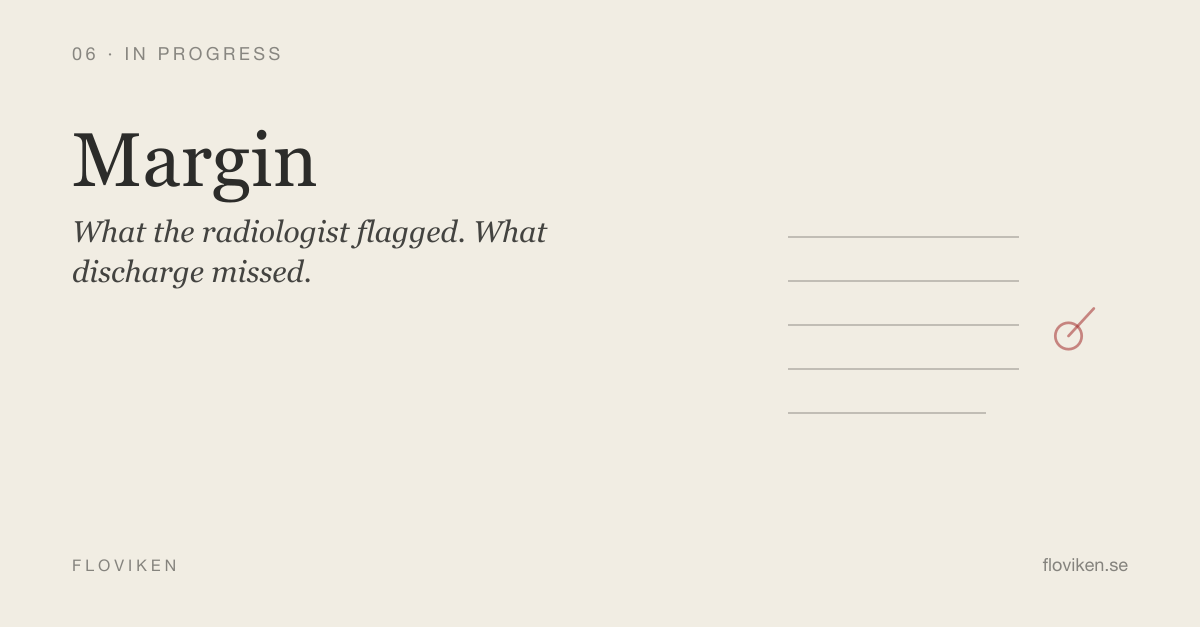
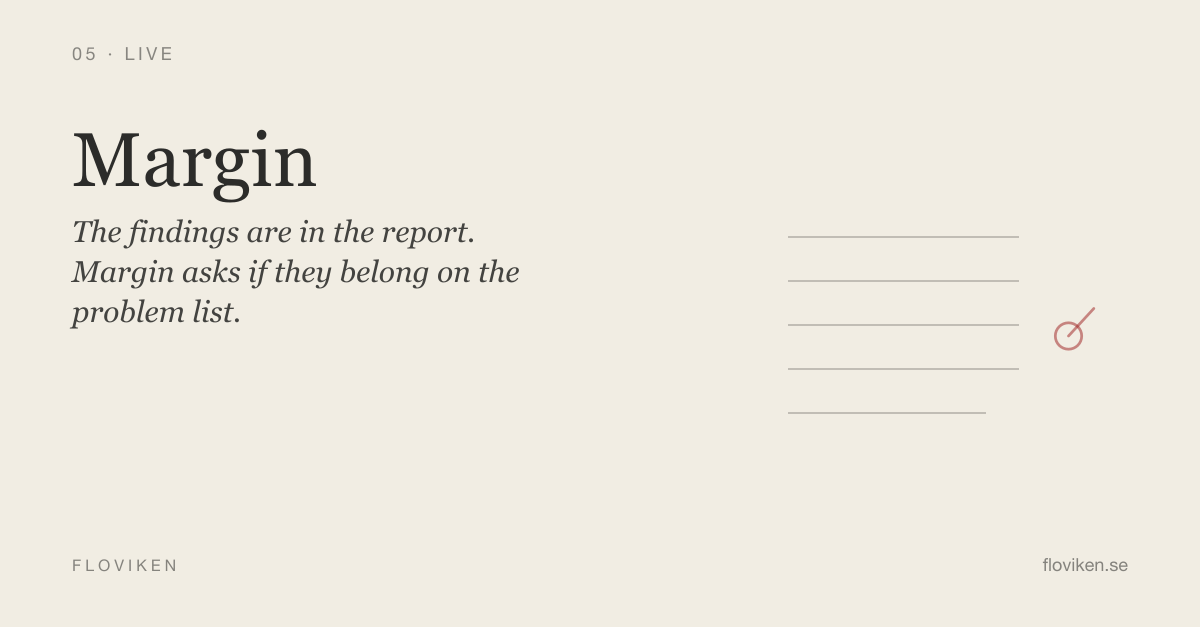
daybreak: ship experiment 07 as LIVE
Flip the daybreak tile from "07 · IN PROGRESS" to "07 · LIVE" on
both the landing grid and the closing tile, and point it at the
detail page. Expand the detail page with a "What Daybreak does in
practice" section describing the load-score + drag-to-reassign +
lock + commit flow, and a three-part "What Daybreak doesn't do"
framing (no real data, no clinical decisions, no operator
replacement). Regenerate OG images so the daybreak card reads LIVE.

Changed region(s): [[0.0617, 0.3333, 0.4625, 0.5152], [0.0925, 0.0606, 0.2467, 0.0909]]

diff --git a/src/app/(detail)/daybreak/page.js b/src/app/(detail)/daybreak/page.js
@@ -12,6 +12,15 @@ const paragraph = {
   marginTop: 0,
 };
 
+const sectionLabel = {
+  fontFamily: '"Inter", -apple-system, sans-serif',
+  fontSize: '0.75rem',
+  letterSpacing: '0.12em',
+  textTransform: 'uppercase',
+  color: '#8a8a8a',
+  margin: '2rem 0 0.75rem 0',
+};
+
 export default function Daybreak() {
   return (
     <article>
@@ -52,6 +61,22 @@ export default function Daybreak() {
       </p>
       <p style={paragraph}>
         Synthetic data only. No EHR integration. A prototype, not a clinical tool. The point is to show that an hour of pre-shift labor could be a button.
+      </p>
+
+      <p style={sectionLabel}>What Daybreak does in practice</p>
+      <p style={paragraph}>
+        Daybreak reads yesterday&apos;s roster, scores each patient on four factors, and proposes a balanced distribution across the working hospitalists in about a second. The proposal arrives as three columns, one per hospitalist, with every patient&apos;s load score broken out into its parts &mdash; active problems, level of care, disposition, and role &mdash; so the operator can see exactly why a number is what it is. Drag a patient between columns to override the proposal. Pin a patient with a lock so re-proposing leaves them where they are. When the list is right, commit it. The commit writes both the algorithmic baseline and the human-edited final state to an audit row, so the difference between what the model proposed and what a clinician actually chose is preserved for every run.
+      </p>
+
+      <p style={sectionLabel}>What Daybreak doesn&apos;t do</p>
+      <p style={paragraph}>
+        Daybreak does not read real patient records. The roster, the prior assignments, and the load factors all come from a synthetic chart substrate. Nothing it computes touches a production system.
+      </p>
+      <p style={paragraph}>
+        Daybreak does not make clinical decisions. It balances workload. It does not decide who needs to be seen first, whether a patient is sick enough to escalate, or which hospitalist should keep which kind of case. Those are still human calls, made by the people on the list.
+      </p>
+      <p style={paragraph}>
+        Daybreak does not replace the operator. Every assignment can be moved. Every proposal can be re-run. The final state is whatever the operator commits, not whatever the algorithm proposed. The tool exists to do the arithmetic so the operator can spend their attention on the judgment calls.
       </p>
 
       <ClosingTile slug="daybreak" />

diff --git a/src/app/_components/tile-data.js b/src/app/_components/tile-data.js
@@ -164,10 +164,10 @@ export const tiles = {
   daybreak: {
     name: "Daybreak",
     oneLiner: "The hour before rounds.",
-    tag: "07 · IN PROGRESS",
+    tag: "07 · LIVE",
     verb: "Before sunrise.",
-    sub: "This room is being built.",
-    href: null,
+    sub: "The hour before rounds.",
+    href: "/daybreak",
     external: false,
     bg: "#d8e3ef",
     color: "#2c3e50",

diff --git a/src/app/page.js b/src/app/page.js
@@ -258,7 +258,7 @@ export default function Home() {
             </div>
             <div style={lineStyle}>The hour before rounds.</div>
           </div>
-          <div style={{ ...statusBase, color: '#5f6e7d' }}>In progress</div>
+          <div style={{ ...statusBase, color: '#5f6e7d' }}>Live</div>
         </a>
 
         <a className="tile" href="/scribe" style={{ ...tileBase, background: '#B8C2B0' }}>